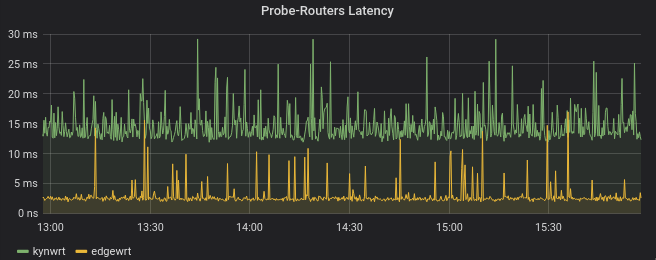
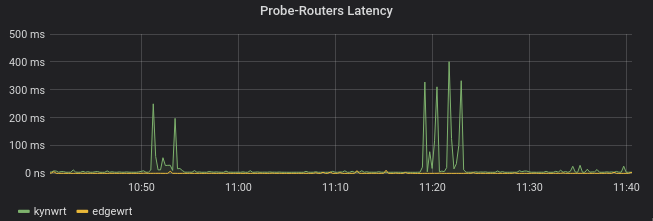
[prometheus-grafana article update] ICMP routers monitoring
Update article to use ICMP requests rather that HTTP to monitor
routers availability.

Changed region(s): [[0.0, 0.1086, 0.9801, 0.8959], [0.3982, 0.0271, 0.6126, 0.0814], [0.0306, 0.9231, 0.2144, 1.0]]

diff --git a/content/prometheus-grafana.md b/content/prometheus-grafana.md
@@ -67,19 +67,19 @@ I am currently using the following exporters:
 
 * [Prometheus Blackbox exporter][4]: "The blackbox exporter allows
   blackbox probing of endpoints over HTTP, HTTPS, DNS, TCP and ICMP."
-  This exporter makes (HTTP in my case) requests to chosen endpoints,
+  This exporter makes (ICMP in my case) requests to chosen endpoints,
   and exposes metrics like (requests duration, requests
   success/failure status, ...). This is great to monitor the
   availability of a service from the point of view of the the blackbox
-  exporter probe. The mechanic there is a bit more complex that with
-  the previous exporters, as shown in the next figure.
+  exporter probe. The behavior there is a bit more complex that with
+  the previous exporters, as shown in the next figure:
 
-Blackbox exporter mechanic (although not limited to HTTP endpoints):
+Blackbox exporter interactions:
 
-    +---------+     +------------+     +----------+     +----------+
-    | Grafana |--<--| Prometheus |--<--| Blackbox |-->--| HTTP     |
-    +---------+     +------------+     | Exporter |     | Endpoint |
-                                       +----------+     +----------+
+    +---------+     +------------+     +----------+     +-----------+
+    | Grafana |--<--| Prometheus |--<--| Blackbox |-->--| Monitored |
+    +---------+     +------------+     | Exporter |     | Endpoint  |
+                                       +----------+     +-----------+
 
 ## Prometheus Node exporter
 
@@ -160,17 +160,17 @@ HTTP endpoint providing us with metrics about target endpoints. The
 targets are provided as argument when querying the Blackbox
 exporter. Here's an example:
 
-    $ curl -s "http://blackbox.w.lan/probe?target=kynwrt.lan&module=http_2xx" | head
+    $ curl -s "http://blackbox.w.lan/probe?target=kynwrt.lan&module=icmp" | head
     # HELP probe_dns_lookup_time_seconds Returns the time taken for probe dns lookup in seconds
     # TYPE probe_dns_lookup_time_seconds gauge
-    probe_dns_lookup_time_seconds 0.007699142
+    probe_dns_lookup_time_seconds 0.0150718
     # HELP probe_duration_seconds Returns how long the probe took to complete in seconds
     # TYPE probe_duration_seconds gauge
-    probe_duration_seconds 0.020027102
-    # HELP probe_failed_due_to_regex Indicates if probe failed due to regex
-    # TYPE probe_failed_due_to_regex gauge
-    probe_failed_due_to_regex 0
-    # HELP probe_http_content_length Length of http content response
+    probe_duration_seconds 0.019866343
+    # HELP probe_icmp_duration_seconds Duration of icmp request by phase
+    # TYPE probe_icmp_duration_seconds gauge
+    probe_icmp_duration_seconds{phase="resolve"} 0.0150718
+    probe_icmp_duration_seconds{phase="rtt"} 0.004375455
 
 
 # Prometheus
@@ -202,12 +202,12 @@ From now on, we can connect to Prometheus web UI and perform some
 queries on our time series using PromQL (Prometheus Query
 Language). For instance:
 
-    probe_http_duration_seconds{phase="processing"}
+    node_memory_MemFree_bytes{instance="kube-worker0.lan:9100"}
 
-A time series is identified by a metric
-(`probe_http_duration_seconds`) and possibly one or more labels
-(`phase="processing"`). As stated by [Prometheus Data Model
-documentation][5]:
+A time series is identified by a metric (`node_memory_MemFree_bytes`)
+and possibly one or more labels
+(`instance="kube-worker0.lan:9100"`). As stated by [Prometheus Data
+Model documentation][5]:
 
 * "The metric name specifies the general feature of a system that is
   measured (e.g. http_requests_total - the total number of HTTP
@@ -288,15 +288,15 @@ look to get more clues. Here are the requests I use:
 * For monitoring the routers availability:
 
 ```
-A = avg_over_time(probe_success{instance="http://kynwrt.lan/"}[2m])
-B = avg_over_time(probe_success{instance="http://edgewrt.lan/"}[2m])
+A = avg_over_time(probe_success{instance="kynwrt.lan"}[2m])
+B = avg_over_time(probe_success{instance="edgewrt.lan"}[2m])
 ```
 
 * For monitoring the latency between the probe and the routers:
 
 ```
-A = sum(probe_http_duration_seconds{instance="http://kynwrt.lan/", phase=~"connect|processing|transfer"})
-B = sum(probe_http_duration_seconds{instance="http://edgewrt.lan/", phase=~"connect|processing|transfer"})
+A = probe_icmp_duration_seconds{instance="kynwrt.lan", phase="rtt"}
+B = probe_icmp_duration_seconds{instance="edgewrt.lan", phase="rtt"}
 ```
 
 ![Probe-Routers Latency graph](static/grafana-probe-routers-latency.png)
